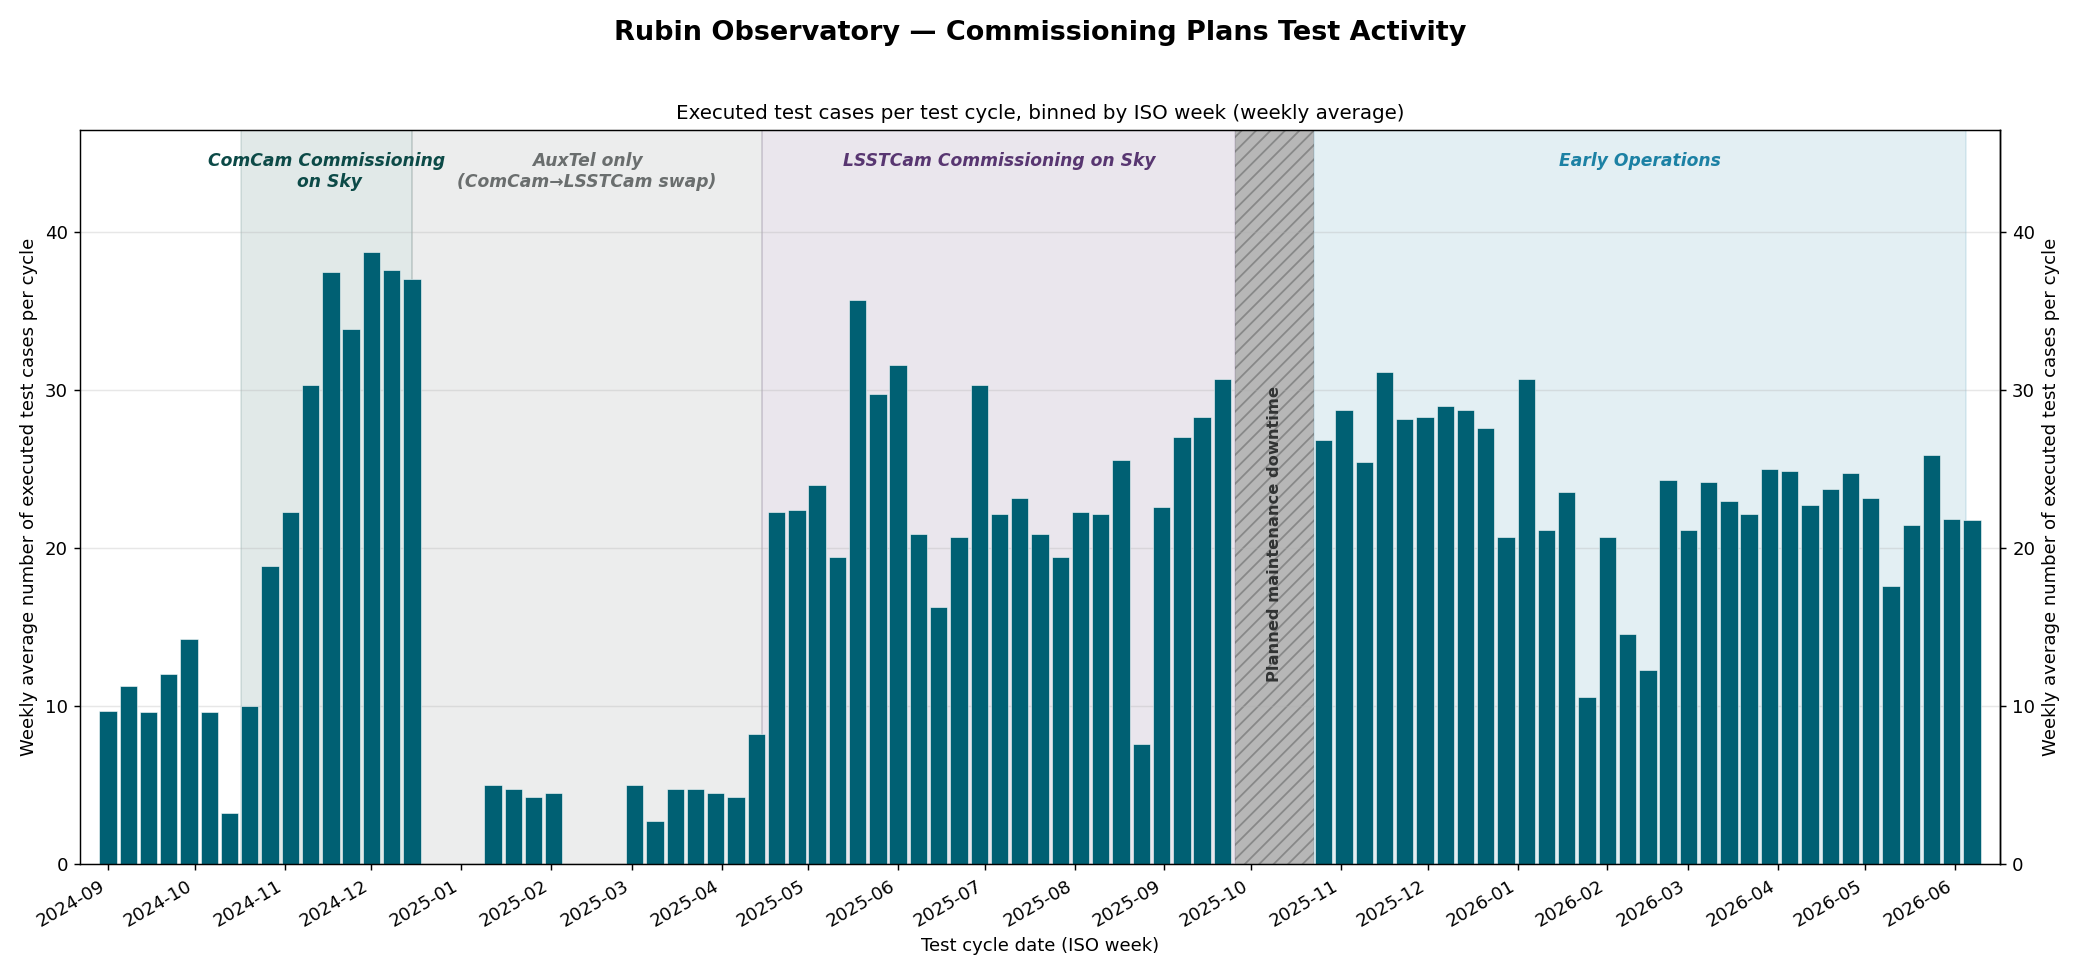
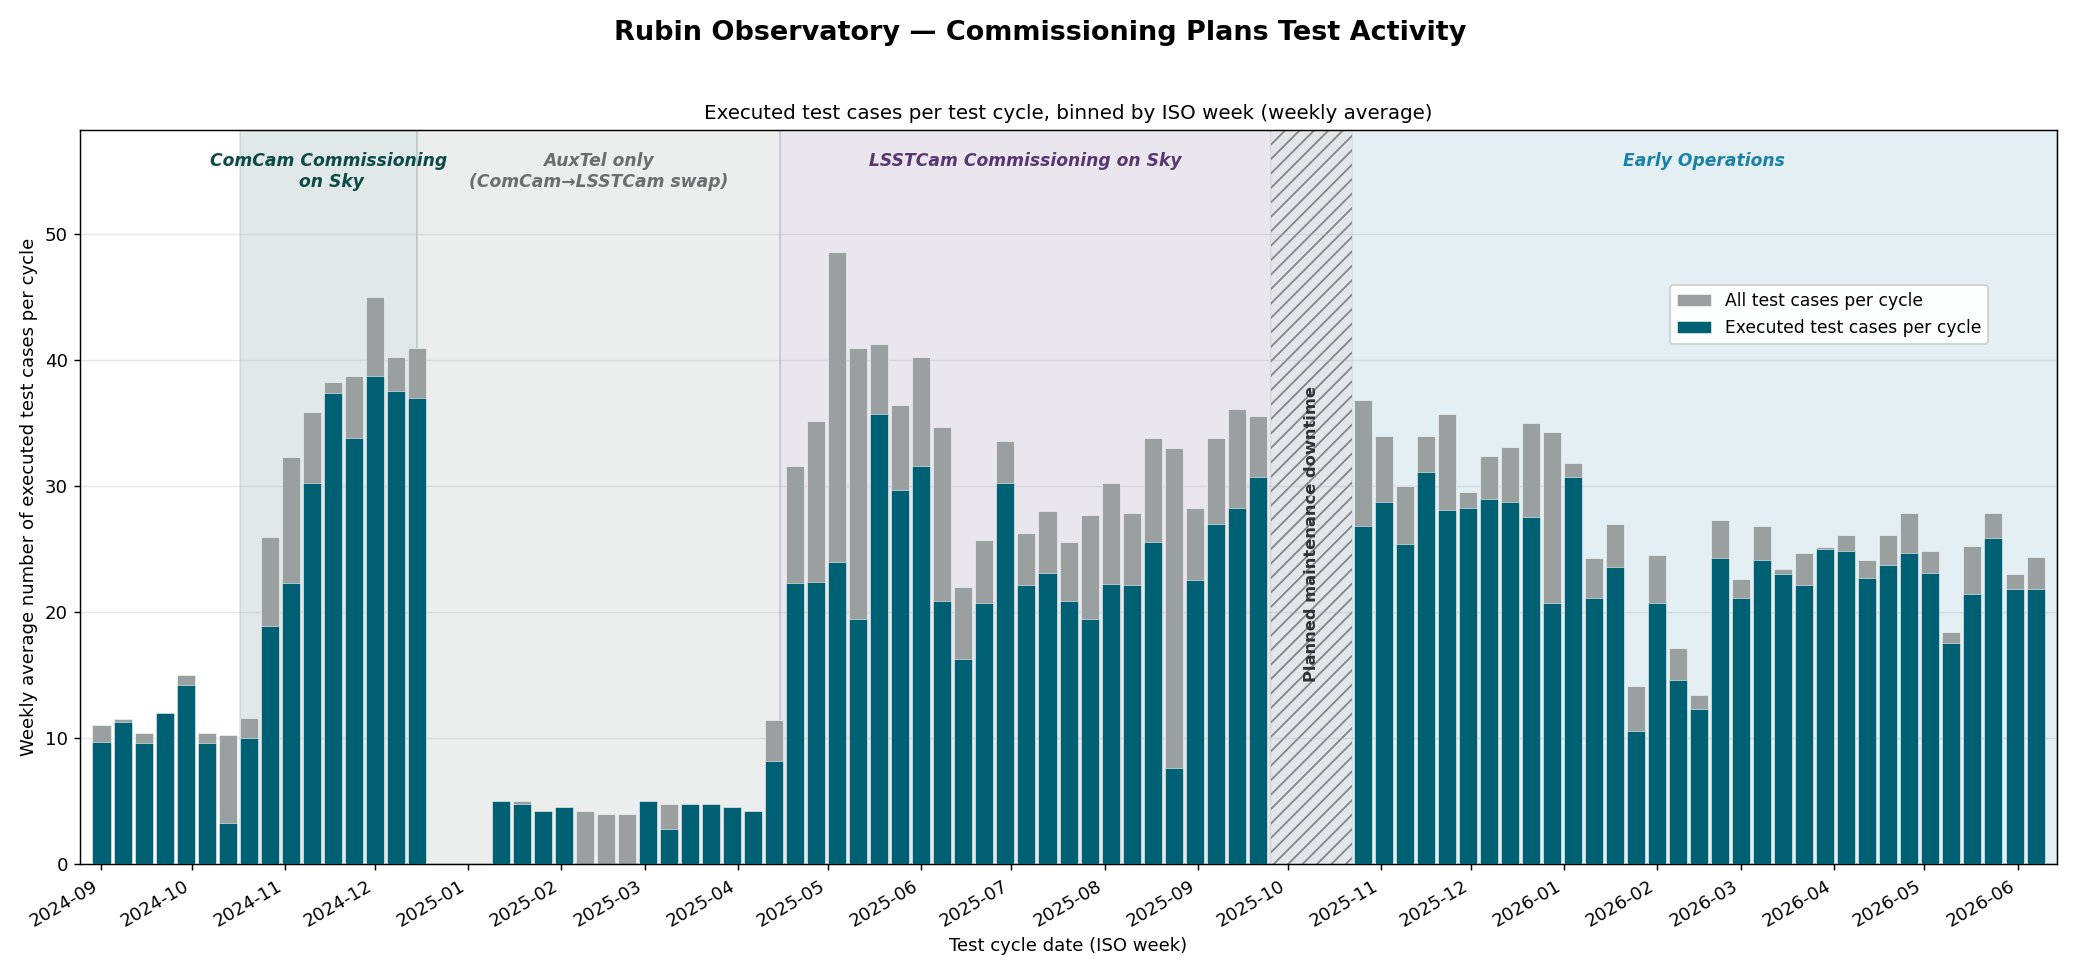
Timeline: overlay all-vs-executed bars and refine styling
- Grey bars (all test cases per cycle) behind teal executed bars, so the grey
  cap shows the un-executed remainder.
- Lighten the maintenance-downtime band so it reads distinctly from the grey
  bars; extend the Early Operations span to the plot's right edge.
- Drop the mirrored right y-axis; move the legend to the right, clear of bars.

diff --git a/investigations/plot_timeline_weekly.py b/investigations/plot_timeline_weekly.py
@@ -63,7 +63,7 @@ ERAS = [
      "AuxTel only\n(ComCam→LSSTCam swap)", RUBIN["cool_gray"]),
     (datetime(2025, 4, 15), DT_START,
      "LSSTCam Commissioning on Sky", RUBIN["purple"]),
-    (DT_END, NOW,
+    (DT_END, None,  # None -> extend to the right edge of the plot
      "Early Operations", RUBIN["blue"]),
 ]
 
@@ -71,39 +71,55 @@ ERAS = [
 def main():
     rows = list(json.loads(COUNTS_FILE.read_text()).values())
 
-    dates, counts, undated = [], [], []
+    dates, counts_all, counts_exec, undated = [], [], [], []
     for r in rows:
         m = DATE_RE.search(r.get("name") or "")
         if m:
             dates.append(datetime.strptime(m.group(1), "%Y-%m-%d"))
-            counts.append(r[COUNT_FIELD])
+            counts_all.append(r["n_test_cases"])   # all cases added to the cycle
+            counts_exec.append(r[COUNT_FIELD])      # executed (not Not Executed)
         else:
             undated.append(r["key"])
 
-    s = pd.Series(counts, index=pd.DatetimeIndex(dates)).sort_index()
-    weekly = s.resample("W").mean()          # mean test cases per cycle, per week
-    weekly = weekly.dropna()
-    print(f"{len(s)} dated cycles -> {len(weekly)} weeks with data "
+    idx = pd.DatetimeIndex(dates)
+    weekly_all = pd.Series(counts_all, index=idx).sort_index().resample("W").mean().dropna()
+    weekly_exec = pd.Series(counts_exec, index=idx).sort_index().resample("W").mean().dropna()
+    print(f"{len(dates)} dated cycles -> {len(weekly_exec)} weeks with data "
           f"({len(undated)} undated: {', '.join(undated) or 'none'})")
+
+    # Plot x-range: a small margin around the first/last weekly bin. The Early
+    # Operations span (end=None) is drawn out to plot_right.
+    plot_left = weekly_all.index.min().to_pydatetime() - timedelta(days=7)
+    plot_right = weekly_all.index.max().to_pydatetime() + timedelta(days=7)
 
     fig, ax = plt.subplots(figsize=(16, 7.5))
 
     # Era spans + labels.
     era_texts = []
     for start, end, label, color in ERAS:
-        ax.axvspan(start, end, color=color, alpha=0.12, zorder=0)
-        t = ax.text(start + (end - start) / 2, ax.get_ylim()[1], label,
+        span_end = end if end is not None else plot_right
+        ax.axvspan(start, span_end, color=color, alpha=0.12, zorder=0)
+        t = ax.text(start + (span_end - start) / 2, ax.get_ylim()[1], label,
                     ha="center", va="top", fontsize=9.5, color=color,
                     fontweight="bold", style="italic")
         era_texts.append(t)
 
-    # Weekly bars (width ~6 days so bars nearly touch).
-    ax.bar(weekly.index, weekly.values, width=6, color="#006073",
-           edgecolor="white", linewidth=0.3, zorder=2)
+    # Weekly bars (width ~6 days so bars nearly touch). Grey bars (all test cases
+    # added to the cycle) sit behind; teal bars (executed) sit in front, so the
+    # grey peeking above each teal bar is the un-executed remainder.
+    ax.bar(weekly_all.index, weekly_all.values, width=6, color="#9AA0A0",
+           edgecolor="white", linewidth=0.3, zorder=2,
+           label="All test cases per cycle")
+    ax.bar(weekly_exec.index, weekly_exec.values, width=6, color="#006073",
+           edgecolor="white", linewidth=0.3, zorder=3,
+           label="Executed test cases per cycle")
 
-    # Headroom above the tallest bar so the era labels (placed near the top)
-    # don't overlap the bars.
-    ax.set_ylim(0, weekly.max() * 1.20)
+    # Headroom above the tallest (grey) bar so the era labels (placed near the
+    # top) don't overlap the bars.
+    ax.set_ylim(0, weekly_all.max() * 1.20)
+    # Legend in the right part of the plot, above the (shorter) bars there.
+    ax.legend(loc="upper left", bbox_to_anchor=(0.80, 0.80),
+              frameon=True, framealpha=0.9, fontsize=9.5)
 
     fig.suptitle("Rubin Observatory — Commissioning Plans Test Activity",
                  fontsize=15, fontweight="bold")
@@ -116,17 +132,14 @@ def main():
     ax.xaxis.set_major_locator(mdates.MonthLocator())
     ax.xaxis.set_major_formatter(mdates.DateFormatter("%Y-%m"))
     fig.autofmt_xdate()
-    ax.margins(x=0.01)
+    ax.set_xlim(plot_left, plot_right)
 
-    # Mirror the y-axis (ticks + label) on the right side.
-    secax = ax.secondary_yaxis("right")
-    secax.set_ylabel(ylabel)
-
-    # Planned downtimes: hatched gray overlay with a vertical label.
+    # Planned downtimes: light hatched overlay (kept lighter than the grey bars)
+    # with a vertical label.
     top = ax.get_ylim()[1]
     for start, end, label in DOWNTIMES:
-        ax.axvspan(start, end, facecolor=RUBIN["steel"], alpha=0.35,
-                   hatch="///", edgecolor=RUBIN["steel"], linewidth=0.0,
+        ax.axvspan(start, end, facecolor="#DCE0E3", alpha=0.8,
+                   hatch="///", edgecolor=RUBIN["cool_gray"], linewidth=0.0,
                    zorder=1)
         ax.text(start + (end - start) / 2, top * 0.45, label,
                 ha="center", va="center", rotation=90, fontsize=9,
